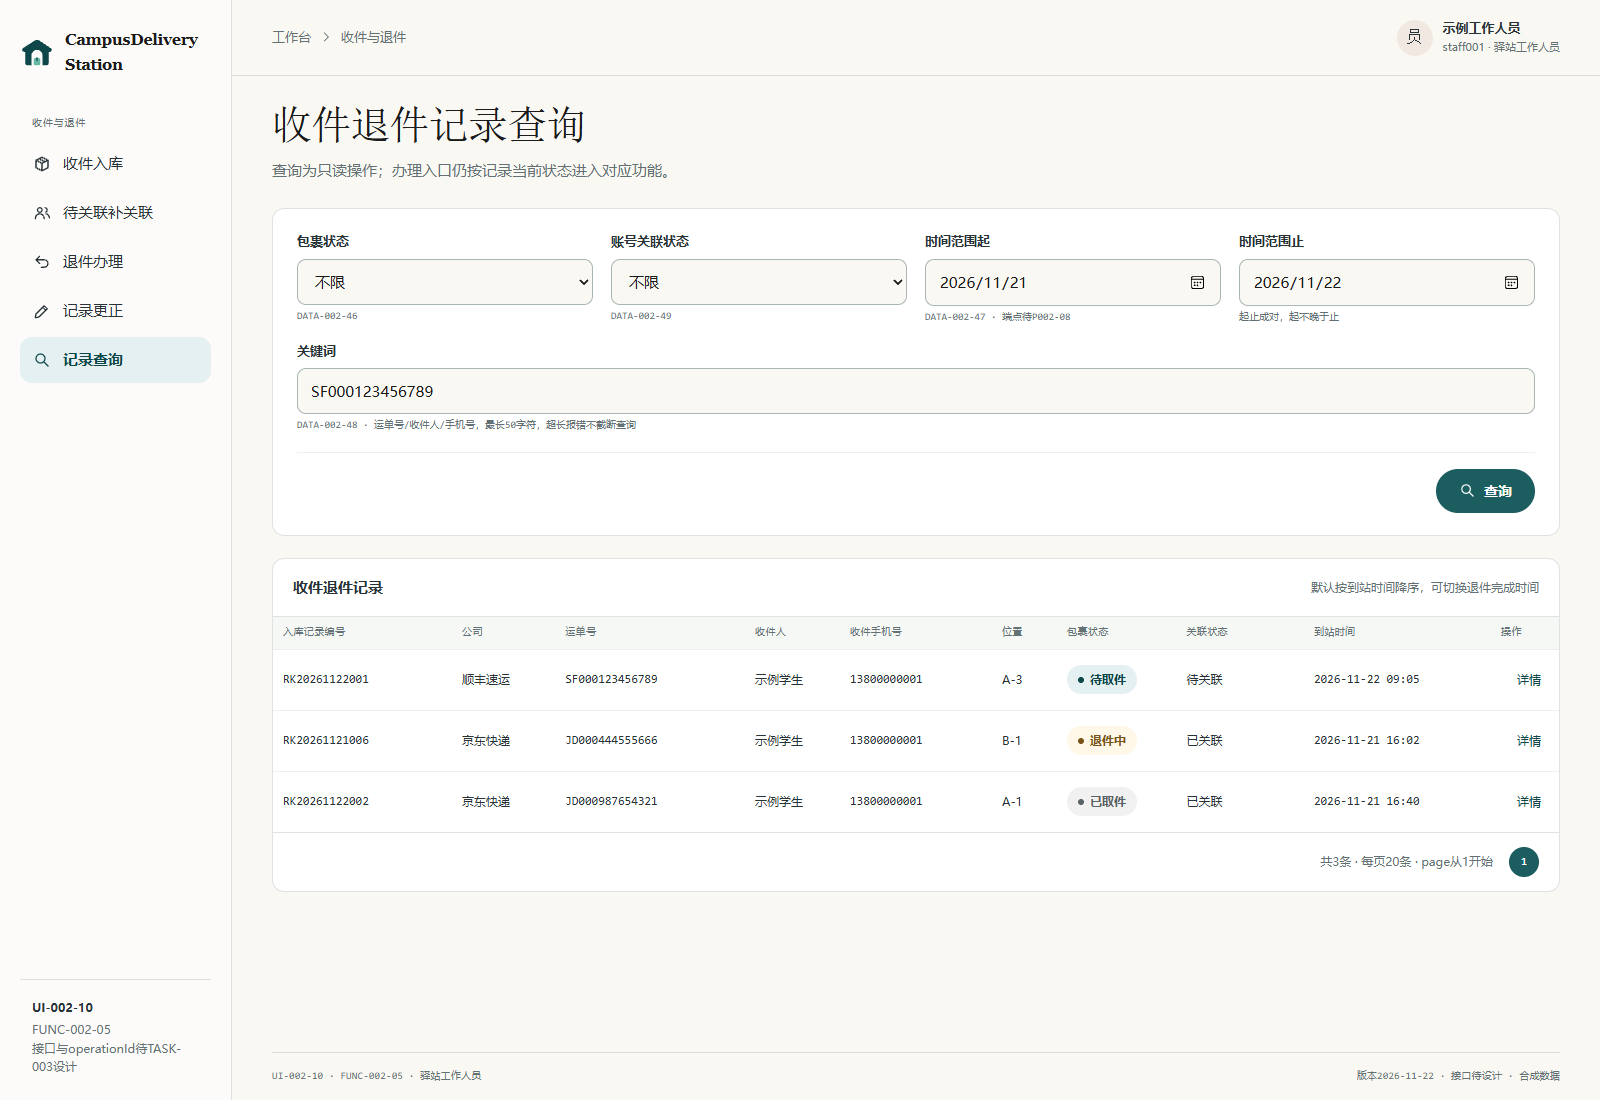
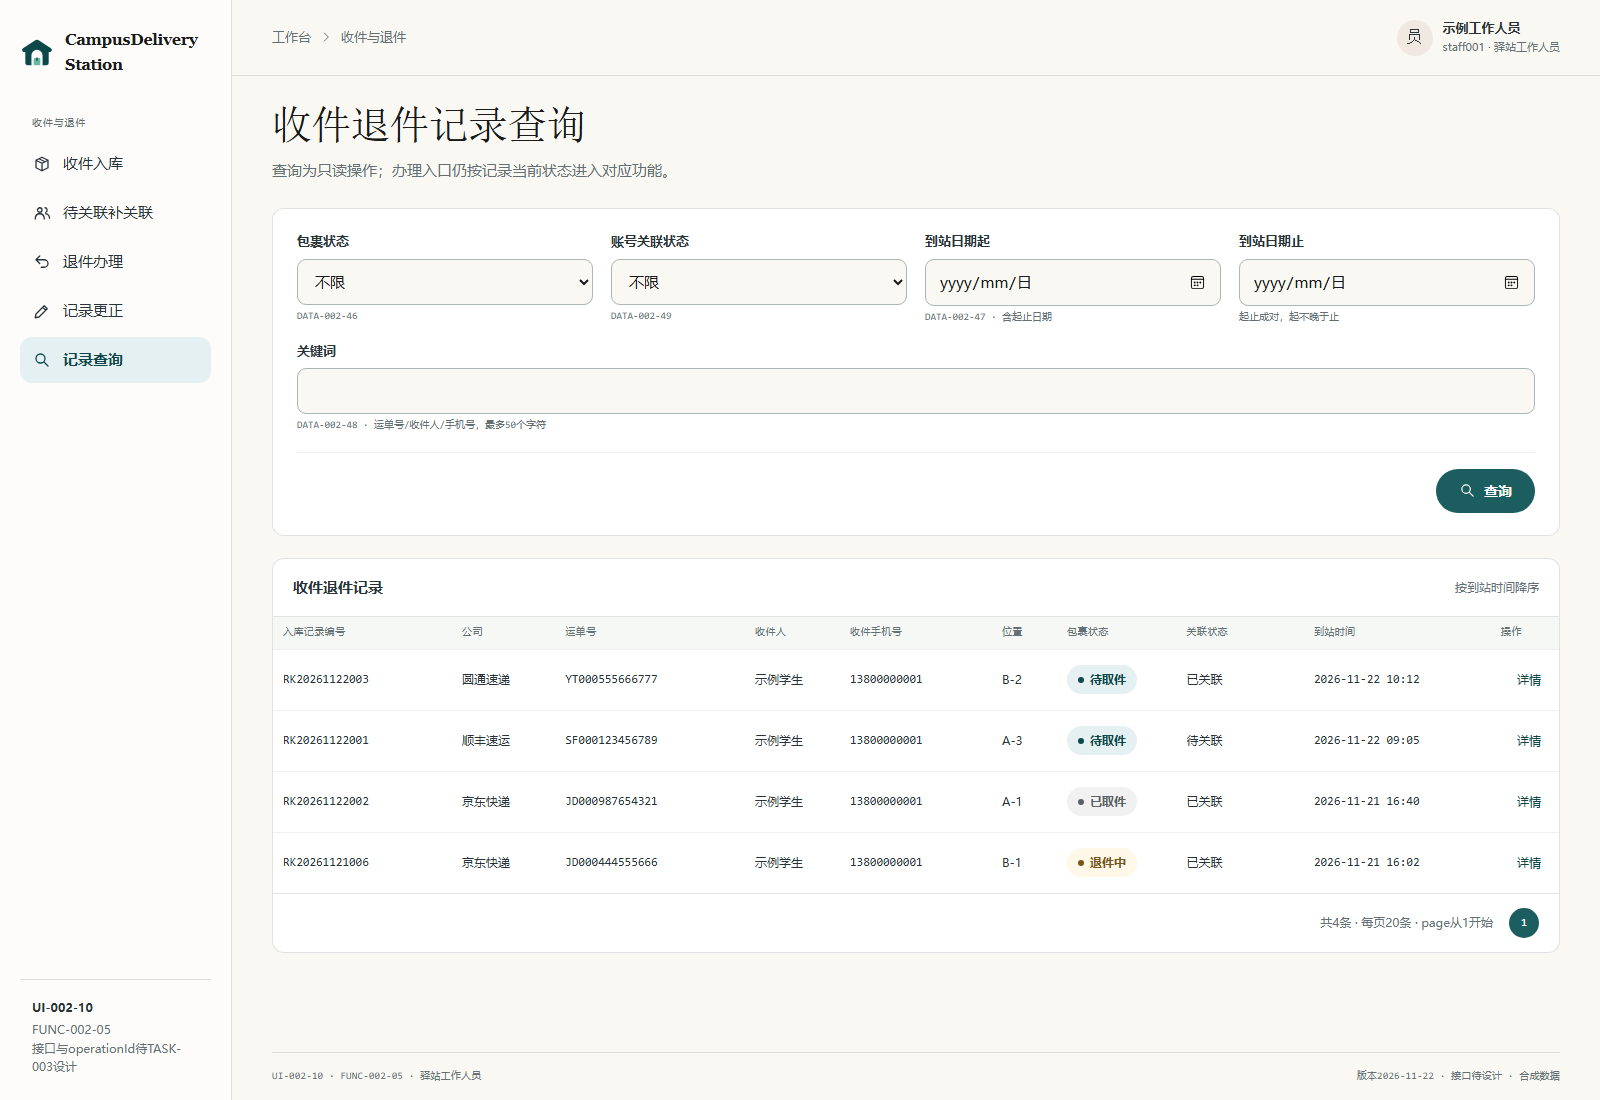
doc(prototype):修复REQ-002查询条件未生效的问题

diff --git a/docs/requirements/prototypes/任奕阳_REQ-002/prototype.js b/docs/requirements/prototypes/任奕阳_REQ-002/prototype.js
@@ -46,9 +46,13 @@ const initialRecords = [
   {
     id: "RK20261122002", company: "京东快递", tracking: "JD000987654321", receiver: student.name,
     phone: student.phone, location: "A-1", status: "已取件", account: student.account, arrivedAt: "2026-11-21 16:40"
-  }
+  },
+  intakeExample
 ];
 const records = [...initialRecords];
+const recordSearches = new Map();
+const emptyRecordFilters = { status: "", association: "", from: "", to: "", keyword: "" };
+const pageSize = 20;
 let intakeDraft;
 let demoState = "normal";
 let toastTimer;
@@ -79,7 +83,7 @@ function escapeHtml(value) {
 }
 
 function findRecord(id) {
-  return id === intakeExample.id ? intakeExample : records.find(record => record.id === id);
+  return records.find(record => record.id === id);
 }
 
 function metaFooter(page) {
@@ -139,18 +143,21 @@ function field(label, ref, control, full = false) {
   return `<div class="field${full ? " field-full" : ""}"><label>${label}<span class="required" aria-hidden="true">*</span></label>${control}<span class="data-ref">${ref}</span></div>`;
 }
 
-function listStateBlock(message) {
-  if (demoState === "loading") {
+function listStateBlock(message, state = demoState) {
+  if (state === "loading") {
     return `<div class="skeleton-wrap" role="status" aria-label="清单加载中"><div class="skeleton"></div><div class="skeleton"></div><div class="skeleton"></div></div>`;
   }
-  if (demoState === "empty") {
+  if (state === "empty") {
     return `<div class="empty-state"><div class="empty-state__inner"><div class="empty-state__icon">${icon("box")}</div><h2>没有符合条件的记录</h2><p>${message}</p></div></div>`;
   }
   return `<div class="state-error" role="alert"><p>清单加载失败，请重试。</p><button class="button button-secondary" type="button" data-action="retry">${icon("refresh")}重新加载</button></div>`;
 }
 
-function pagination(total) {
-  return `<div class="list-footer"><span>共${total}条 · 每页20条 · page从1开始</span><div class="pagination"><span class="page-number">1</span></div></div>`;
+function pagination(total, page = 1) {
+  const pageCount = Math.ceil(total / pageSize);
+  const previous = pageCount > 1 ? `<button class="button button-secondary" type="button" data-action="record-page" data-page="${page - 1}" ${page === 1 ? "disabled" : ""}>上一页</button>` : "";
+  const next = pageCount > 1 ? `<button class="button button-secondary" type="button" data-action="record-page" data-page="${page + 1}" ${page === pageCount ? "disabled" : ""}>下一页</button>` : "";
+  return `<div class="list-footer"><span>共${total}条 · 每页${pageSize}条 · page从1开始</span><div class="pagination">${previous}<span class="page-number" aria-current="page">${page}</span>${next}</div></div>`;
 }
 
 /* FUNC-002-01 收件入库 */
@@ -389,8 +396,28 @@ function correctionPage(closed, selectedRecord, requestedRecordId) {
 }
 
 /* FUNC-002-05 查询 */
-function recordRows() {
-  return records.map(record => {
+function recordSearchScope(route) {
+  return route === "records-admin" ? "records-admin" : "records";
+}
+
+function filterOptions(values, selected) {
+  return `<option value="">不限</option>${values.map(value => `<option${value === selected ? " selected" : ""}>${value}</option>`).join("")}`;
+}
+
+function filteredRecords(filters) {
+  const keyword = filters.keyword.toLowerCase();
+  return records.filter(record => {
+    const association = record.account ? "已关联" : "待关联";
+    const date = record.arrivedAt.slice(0, 10);
+    return (!filters.status || record.status === filters.status) &&
+      (!filters.association || association === filters.association) &&
+      (!filters.from || date >= filters.from) && (!filters.to || date <= filters.to) &&
+      (!keyword || [record.tracking, record.receiver, record.phone].some(value => value.toLowerCase().includes(keyword)));
+  }).sort((a, b) => b.arrivedAt.localeCompare(a.arrivedAt) || b.id.localeCompare(a.id));
+}
+
+function recordRows(entries) {
+  return entries.map(record => {
     const statusStyle = isRecordClosed(record) ? " neutral" : record.status === "退件中" ? " warning" : "";
     return `<tr><td class="mono">${record.id}</td><td>${record.company}</td><td class="mono">${escapeHtml(record.tracking)}</td><td>${escapeHtml(record.receiver)}</td>
       <td class="mono">${record.phone}</td><td>${record.location}</td><td><span class="status-badge${statusStyle}">${record.status}</span></td>
@@ -431,20 +458,26 @@ function recordDetail(record, admin) {
 function recordsPage(route, record, unavailable) {
   const admin = route === "records-admin";
   const page = pages[route];
-  const table = demoState === "normal" ? `<div class="table-scroll"><table class="data-table records-table">
+  const search = recordSearches.get(recordSearchScope(route));
+  const filters = search?.filters ?? emptyRecordFilters;
+  const results = filteredRecords(filters);
+  const resultPage = Math.min(search?.page ?? 1, Math.max(1, Math.ceil(results.length / pageSize)));
+  const offset = (resultPage - 1) * pageSize;
+  const table = demoState === "normal" && results.length ? `<div class="table-scroll"><table class="data-table records-table">
       <thead><tr><th>入库记录编号</th><th>公司</th><th>运单号</th><th>收件人</th><th>收件手机号</th><th>位置</th><th>包裹状态</th><th>关联状态</th><th>到站时间</th><th>操作</th></tr></thead>
-      <tbody>${recordRows()}</tbody></table></div>${pagination(records.length)}` : listStateBlock("没有符合条件的记录，请调整查询条件。");
+      <tbody>${recordRows(results.slice(offset, offset + pageSize))}</tbody></table></div>${pagination(results.length, resultPage)}` :
+    listStateBlock("请调整查询条件后重试。", demoState === "normal" ? "empty" : demoState);
   const detail = record && demoState === "normal" ? recordDetail(record, admin) : "";
   return pageHeading(page, admin ? "管理员只读查看全部获准记录，不显示任何办理入口。" : "查询为只读操作；办理入口仍按记录当前状态进入对应功能。", admin ? `<span class="role-badge">管理员 · 只读</span>` : "") +
     (unavailable ? `<p class="form-alert" role="alert">未找到该记录，请从清单重新选择。</p>` : "") +
     `<form class="filter-card" id="record-filter" novalidate><div class="filter-grid">
-      <div class="field"><label for="record-status">包裹状态</label><select id="record-status"><option value="">不限</option><option>待取件</option><option>已取件</option><option>拒收待退件</option><option>退件中</option><option>已退件</option></select><span class="data-ref">DATA-002-46</span></div>
-      <div class="field"><label for="record-link">账号关联状态</label><select id="record-link"><option value="">不限</option><option>已关联</option><option>待关联</option></select><span class="data-ref">DATA-002-49</span></div>
-      <div class="field"><label for="record-from">时间范围起</label><input id="record-from" name="from" type="date" value="2026-11-21"><span class="data-ref">DATA-002-47 · 端点待P002-08</span></div>
-      <div class="field"><label for="record-to">时间范围止</label><input id="record-to" name="to" type="date" value="2026-11-22"><span class="data-ref">起止成对，起不晚于止</span></div>
-      <div class="field field-full"><label for="record-keyword">关键词</label><input id="record-keyword" name="keyword" value="SF000123456789" maxlength="120" autocomplete="off"><span class="data-ref">DATA-002-48 · 运单号/收件人/手机号，最长50字符，超长报错不截断查询</span></div>
+      <div class="field"><label for="record-status">包裹状态</label><select id="record-status" name="status">${filterOptions(["待取件", "已取件", "拒收待退件", "退件中", "已退件"], filters.status)}</select><span class="data-ref">DATA-002-46</span></div>
+      <div class="field"><label for="record-link">账号关联状态</label><select id="record-link" name="association">${filterOptions(["已关联", "待关联"], filters.association)}</select><span class="data-ref">DATA-002-49</span></div>
+      <div class="field"><label for="record-from">到站日期起</label><input id="record-from" name="from" type="date" value="${filters.from}"><span class="data-ref">DATA-002-47 · 含起止日期</span></div>
+      <div class="field"><label for="record-to">到站日期止</label><input id="record-to" name="to" type="date" value="${filters.to}"><span class="data-ref">起止成对，起不晚于止</span></div>
+      <div class="field field-full"><label for="record-keyword">关键词</label><input id="record-keyword" name="keyword" value="${escapeHtml(filters.keyword)}" autocomplete="off"><span class="data-ref">DATA-002-48 · 运单号/收件人/手机号，最多50个字符</span></div>
     </div><div class="filter-footer"><button class="button button-primary" type="submit">${icon("search")}查询</button></div></form>
-    <section class="list-card"><div class="list-toolbar"><strong>收件退件记录</strong><span class="list-count">默认按到站时间降序，可切换退件完成时间</span></div>${table}</section>${detail}`;
+    <section class="list-card"><div class="list-toolbar"><strong>收件退件记录</strong><span class="list-count">按到站时间降序</span></div>${table}</section>${detail}`;
 }
 
 function render() {
@@ -519,7 +552,7 @@ function readIntakeForm(form) {
 }
 
 function matchingIntakes({ company, tracking }) {
-  return [...records, intakeExample].filter(record => record.company === company && record.tracking === tracking);
+  return records.filter(record => record.company === company && record.tracking === tracking);
 }
 
 function showIntakeDuplicate(draft, record) {
@@ -609,14 +642,21 @@ function handleCorrection(form) {
 }
 
 function handleRecordFilter(form) {
-  const from = form.elements.from.value;
-  const to = form.elements.to.value;
-  const keyword = form.elements.keyword;
-  if ((from && !to) || (!from && to)) { showToast("时间范围起止须成对填写。"); return; }
-  if (from && to && from > to) { showToast("起始时间不能晚于结束时间。"); return; }
-  if (keyword.value.length > 50) { setFieldError(keyword, "关键词最长50个字符，请缩短后再查询。"); keyword.focus(); return; }
-  setFieldError(keyword, "");
-  showToast("已按当前条件刷新列表；查询不修改业务数据，条件不持久保存。");
+  const { status, association, from, to, keyword } = form.elements;
+  const fromError = from.validity.badInput ? "请输入有效的起始日期。" : !from.value && to.value ? "请填写起始日期。" : "";
+  let toError = to.validity.badInput ? "请输入有效的结束日期。" : from.value && !to.value ? "请填写结束日期。" : "";
+  if (from.valueAsNumber > to.valueAsNumber) toError = "起始日期不能晚于结束日期。";
+  setFieldError(from, fromError);
+  setFieldError(to, toError);
+  setFieldError(keyword, Array.from(keyword.value).length > 50 ? "关键词最长50个字符，请缩短后再查询。" : "");
+  const firstError = form.querySelector('[aria-invalid="true"]');
+  if (firstError) { firstError.focus(); return; }
+
+  const filters = { status: status.value, association: association.value, from: from.value, to: to.value, keyword: keyword.value.trim() };
+  recordSearches.set(recordSearchScope(currentRoute()), { filters, page: 1 });
+  demoState = "normal";
+  render();
+  document.querySelector('#record-filter [type="submit"]').focus({ preventScroll: true });
 }
 
 document.addEventListener("click", event => {
@@ -655,6 +695,12 @@ document.addEventListener("click", event => {
     const detailRoute = currentRoute() === "records-admin" ? "records-admin" : "record-detail";
     window.location.hash = `${detailRoute}/${actionButton.dataset.recordId}`;
   }
+  if (action === "record-page") {
+    const scope = recordSearchScope(currentRoute());
+    const filters = recordSearches.get(scope)?.filters ?? emptyRecordFilters;
+    recordSearches.set(scope, { filters, page: Number(actionButton.dataset.page) });
+    render();
+  }
   if (action === "search") showToast("已按当前条件刷新待关联清单。");
   if (action === "retry") { demoState = "normal"; render(); }
 });
@@ -681,6 +727,7 @@ document.getElementById("state-picker").addEventListener("change", event => { de
 document.getElementById("reset-prototype").addEventListener("click", () => {
   demoState = "normal";
   records.splice(initialRecords.length);
+  recordSearches.clear();
   intakeDraft = undefined;
   if (window.location.hash === "#intake") render();
   else window.location.hash = "intake";

diff --git a/docs/management/team.md b/docs/management/team.md
@@ -51,6 +51,7 @@
 
 | 日期 | 关联任务 | 关键进展 |
 | --- | --- | --- |
+| 2026-11-22 | TASK-002、TASK-011 | 按杨振煜确认修订REQ-002收件退件查询。工作人员和管理员可按状态、关联状态、到站日期及关键词组合筛选，详情返回保留查询条件和页码。Edge复测无匹配、非法条件、日期边界、两种角色和三档视口，并以23条合成匹配记录验证分页。重导UI-002-10及UI-002-11。结果见[原型说明](../requirements/prototypes/任奕阳_REQ-002/REQ-002_界面原型说明.md#打开方式与已执行检查)。TASK-002继续进行。 |
 | 2026-11-22 | TASK-002、TASK-011 | 按杨振煜确认修订REQ-002入库演示。成功提示、取件码标签和最近入库清单引用同一笔登记，手机号未匹配唯一账号时显示待关联，继续入库保留公司和位置。Edge复测账号匹配分支、查重与重复提交、连续入库和三档视口，重导UI-002-01～03。结果见[原型说明](../requirements/prototypes/任奕阳_REQ-002/REQ-002_界面原型说明.md#打开方式与已执行检查)。TASK-002继续进行。 |
 | 2026-11-22 | TASK-002、TASK-011 | 按杨振煜确认修订REQ-002查询列表与详情绑定。工作人员和管理员均按入库记录编号打开对应详情，工作人员的更正、继续退件和追加说明入口沿用所选记录，管理员只读。Edge复测两种角色各三条记录、办理入口和三档视口，重导UI-002-09及UI-002-11。结果见[原型说明](../requirements/prototypes/任奕阳_REQ-002/REQ-002_界面原型说明.md#打开方式与已执行检查)。TASK-002继续进行，后续逐项核对审核发现。 |
 | 2026-11-22 | TASK-002、TASK-011 | 核对REQ-001和REQ-002的23张导出图、功能与数据表，并用Edge复测9种代表状态的三档视口及关键交互。两套原型的品牌、背景和工作台样式一致。复现REQ-001账号核验与角色分流缺口，以及REQ-002列表与详情错绑、查询和退件反馈与记录状态脱节、只读抽屉无法关闭等问题。TASK-002保持进行中。杨振煜与任奕阳先修订各自原型并统一导航和抽屉规则，相关负责人同步ADR-008及补齐REQ-003～005原型后联合复评，再汇入CR-04课程DOCX。 |
